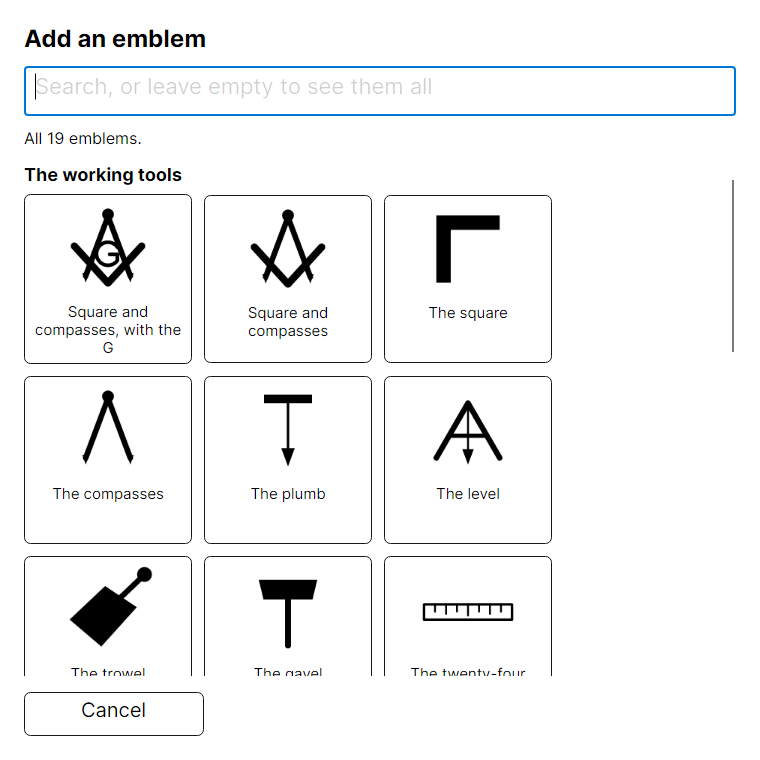
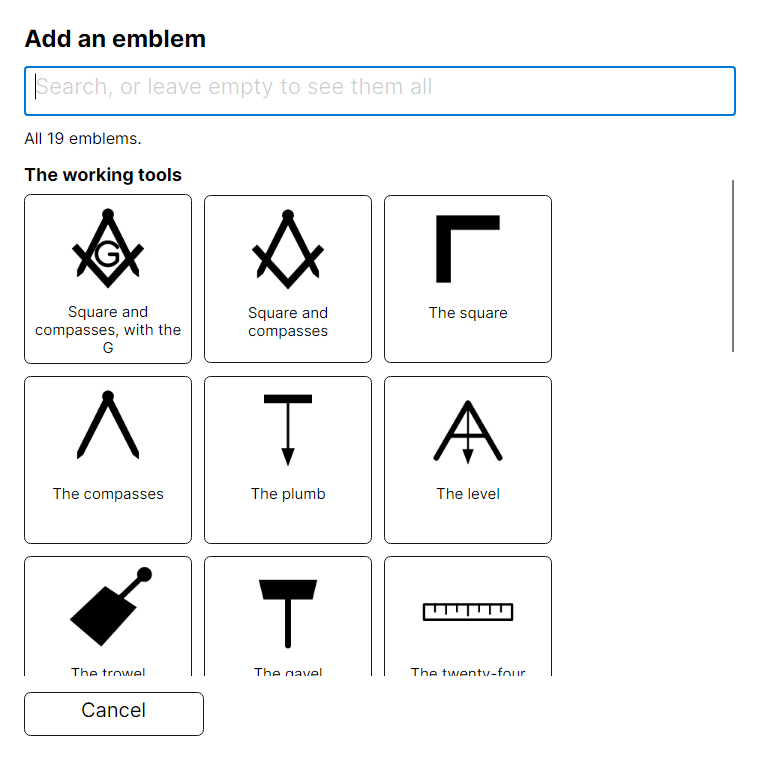
fix(emblems): the compasses point where their legs go, and the square ends square
The owner said the points looked wrong. They were, and the reason is measurable:
the legs travelled 20.7 degrees out from vertical while the triangles that ended
them were axis-aligned and pointed straight DOWN. Every compass point this
program has ever drawn was aimed twenty degrees away from the leg it belonged to.
The round cap on the 58-wide stroke made it worse — the leg swelled at exactly
the place it should have started to narrow, so the point read as a spearhead
bolted onto a rod.

A LEG IS NOW ONE FILLED SHAPE rather than a stroke with a point stuck on the end:
a five-point polygon in the leg's own frame, full width at the hinge, narrowing
at nine-tenths, closing to a chisel at the tip. The point continues the leg's
direction because it is made of the same shape, so there is nothing left to keep
aligned. The two things that could drift are one thing.

THE SQUARE IS A FILLED CHEVRON for the same reason. EmblemPart strokes with round
caps and joins, which is right for a plumb line and wrong for the one tool in the
craft whose whole meaning is the true right angle, finishing in two rounded blobs.
There is no cap setting to reach for and there should not be: a square end is a
fact about the shape, not about how somebody draws it. Six points, 76 wide, which
is what the stroke was, so the emblem's weight is unchanged.

Two proportions were wrong as well and less obvious. The legs opened 21 degrees
[…]

Changed region(s): [[0.3329, 0.2724, 0.4237, 0.3632], [0.0908, 0.5145, 0.1816, 0.6053], [0.0908, 0.2724, 0.1816, 0.3632]]

diff --git a/src/TrestleBoard.Emblems/EmblemLibrary.cs b/src/TrestleBoard.Emblems/EmblemLibrary.cs
@@ -35,18 +35,61 @@ public static class EmblemLibrary
     // The compasses and the square appear alone and together, and the emblem everybody knows is the
     // two of them interlocked. Drawn once each, so the pair can never drift from its halves.
 
+    /// <summary>
+    /// The compasses: a hinge, and two legs that taper to a point.
+    ///
+    /// <para><b>A LEG IS ONE FILLED SHAPE, NOT A STROKE WITH A POINT STUCK ON THE END.</b> It was
+    /// the second thing until the owner said the points looked wrong, and they did, for a reason
+    /// worth writing down: the legs travel 20.7° out from vertical while the triangles that ended
+    /// them were axis-aligned and pointed straight DOWN. Every compass point on every page this
+    /// program has drawn was aimed twenty degrees away from the leg it belonged to. The round cap on
+    /// the 58-wide stroke made it worse — the leg swelled at the very place it should have begun to
+    /// narrow, so the point read as a spearhead bolted to a rod.</para>
+    ///
+    /// <para>Each leg is now a five-point polygon in the leg's own frame: full width at the hinge,
+    /// slightly narrower at four-fifths of the way down, and closing to a needle at the tip, so the
+    /// point continues the leg's direction because it is made of the same shape. There is nothing
+    /// to keep aligned any more, which is the only kind of fix worth making to geometry — the two
+    /// things that could drift are now one thing.</para>
+    ///
+    /// <para><b>The spread and the reach were wrong as well, and less obviously.</b> The legs opened
+    /// 21° from vertical where the emblem everybody recognises opens nearer 30°, so the compasses
+    /// read as pinched; and the points reached BELOW the square's vertex, where the emblem rests
+    /// them inside its V. Both were measured against a picture rather than argued about: the legs
+    /// now open 26.8° and reach 81% of the height, with the square's vertex closing below them at
+    /// 92%. The legs were extended twice: the first pass fixed the spread and left them looking
+    /// stubby against the square, which is the trouble with correcting one proportion at a time.</para>
+    ///
+    /// <para><b>Authored here, not imported.</b> A public-domain drawing was used to judge what was
+    /// wrong; not one of its numbers is in this file. <c>assets-src/emblems/EMBLEMS-PROVENANCE.txt</c>
+    /// states that every emblem in this application was drawn for it, with no traced artwork of any
+    /// kind, and that statement is still true.</para>
+    /// </summary>
     private static IReadOnlyList<EmblemPart> Compasses { get; } =
     [
         new EmblemPart("M500,150 m-62,0 a62,62 0 1,0 124,0 a62,62 0 1,0 -124,0"),
-        new EmblemPart("M500,170 L268,790", 58),
-        new EmblemPart("M500,170 L732,790", 58),
-        new EmblemPart("M232,760 L268,860 L304,760 Z"),
-        new EmblemPart("M696,760 L732,860 L768,760 Z"),
+        new EmblemPart("M466,151 L179,726 L178,806 L241,758 L534,185 Z"),
+        new EmblemPart("M534,151 L821,726 L822,806 L759,758 L466,185 Z"),
     ];
 
+    /// <summary>
+    /// The square: a filled chevron whose ends are cut at ninety degrees.
+    ///
+    /// <para><b>It was a stroke, and a stroke could not have the right ends.</b>
+    /// <see cref="EmblemPart"/> strokes with round caps and joins, which is right for a plumb line
+    /// and wrong for a mason's square — the one tool in the craft whose whole meaning is the true
+    /// right angle, finishing in two rounded blobs. There is no cap setting to reach for and there
+    /// should not be: a square end is a fact about this shape, not a property of how somebody draws
+    /// it, so the shape carries it. Same move as the compasses' legs above, for the same reason.
+    /// </para>
+    ///
+    /// <para>Six points: the outer edge from arm to mitred vertex to arm, the two ends cut square
+    /// across, and the inner edge back. The band is 76 wide, which is what the stroke was, so the
+    /// emblem's weight is unchanged.</para>
+    /// </summary>
     private static IReadOnlyList<EmblemPart> Square { get; } =
     [
-        new EmblemPart("M150,480 L500,865 L850,480", 76),
+        new EmblemPart("M178,454 L500,809 L822,454 L878,506 L500,921 L122,506 Z"),
     ];
 
     private static IReadOnlyList<EmblemPart> LetterG { get; } =

diff --git a/docs/images/README.md b/docs/images/README.md
@@ -18,7 +18,7 @@ regeneration adds a full copy to the repository's history:
 dotnet run --project tools/TrestleBoard.Screenshots -- --only font-picker
 ```
 
-Last regenerated: **2026-08-21**, TrestleBoard **0.1.0**.
+Last regenerated: **2026-08-22**, TrestleBoard **0.1.0**.
 That date covers the run that last touched this file; a `--only` run rewrites it
 while leaving the other images as they were, which is the honest reading of it.
 
